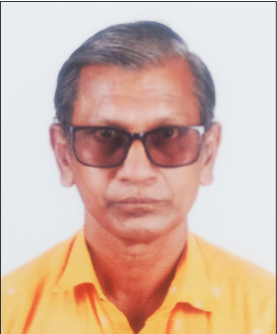
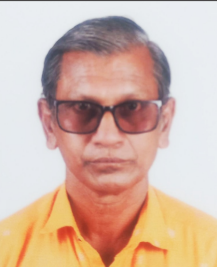
feat: add new lifetime members page and an associated member image.

diff --git a/src/app/members/lifetime/page.tsx b/src/app/members/lifetime/page.tsx
@@ -13,63 +13,63 @@ const lifetimeMembers: LifetimeMember[] = [
     name: "Dr. Vikas Upadhyay",
     memberNumber: "NIH/UP/1178",
     dateOfBirth: "05.10.1975",
-    image: "/images/lifetime-members/Vikas-Upadhyay.png",
+    image: "/images/vikasupadhyay.jpg",
   },
   {
     id: 2,
     name: "Anil-Kumar",
     memberNumber: "NIH/UP/1179",
     dateOfBirth: "01.07.1963",
-    image: "/images/lifetime-members/Anil-Kumar.png",
+    image: "/images/Anil-Kumar.png",
   },
   {
     id: 3,
     name: "Shashi Sharma",
     memberNumber: "NIH/UP/1167",
     dateOfBirth: "05.07.1977",
-    image: "/images/lifetime-members/Shashi-Sharma.png",
+    image: "/images/Shashi-Sharma.png",
   },
   {
     id: 4,
     name: "Dr. Rekha Choudhary",
     memberNumber: "NIHDL/1162",
     dateOfBirth: "15.09.1966",
-    image: "/images/lifetime-members/Rekha-Choudhary.png",
+    image: "/images/Rekha-Choudhary.png",
   },
   {
     id: 5,
     name: "Sadhna Upadhyay",
     memberNumber: "NIH/UP/1175",
     dateOfBirth: "10.07.1975",
-    image: "/images/lifetime-members/Sadhna-Upadhyay.png",
+    image: "/images/Sadhna-Upadhyay.png",
   },
   {
     id: 6,
     name: "Praveen Jain",
     memberNumber: "NIH/DL/1150",
     dateOfBirth: "22/11/1968",
-    image: "/images/lifetime-members/Praveen-Jain.png",
+    image: "/images/Praveen-Jain.png",
   },
   {
     id: 7,
     name: "Dr. Sumanlata Dewangan",
     memberNumber: "NIH/UK/1257",
     dateOfBirth: "28/05/1987",
-    image: "/images/lifetime-members/Sumanlata-Dewangan.png",
+    image: "/images/Sumanlata-Dewangan.png",
   },
   {
     id: 8,
     name: "Dr. Virendra Vikram Singh",
     memberNumber: "NIH/UP/1258",
     dateOfBirth: "02/12/1954",
-    image: "/images/lifetime-members/Virendra-Vikram.png",
+    image: "/images/Virendra-Vikram-Singh.png",
   },
   {
     id: 9,
     name: "Dr. Krantiveer Shivram Mahindrakar",
     memberNumber: "NIH/MH/1256",
     dateOfBirth: "01/07/1967",
-    image: "/images/lifetime-members/Krantiveer-Shivram.png",
+    image: "/images/Krantiveer-Shivram-Mahindrakar.png",
   },
 ];
 
